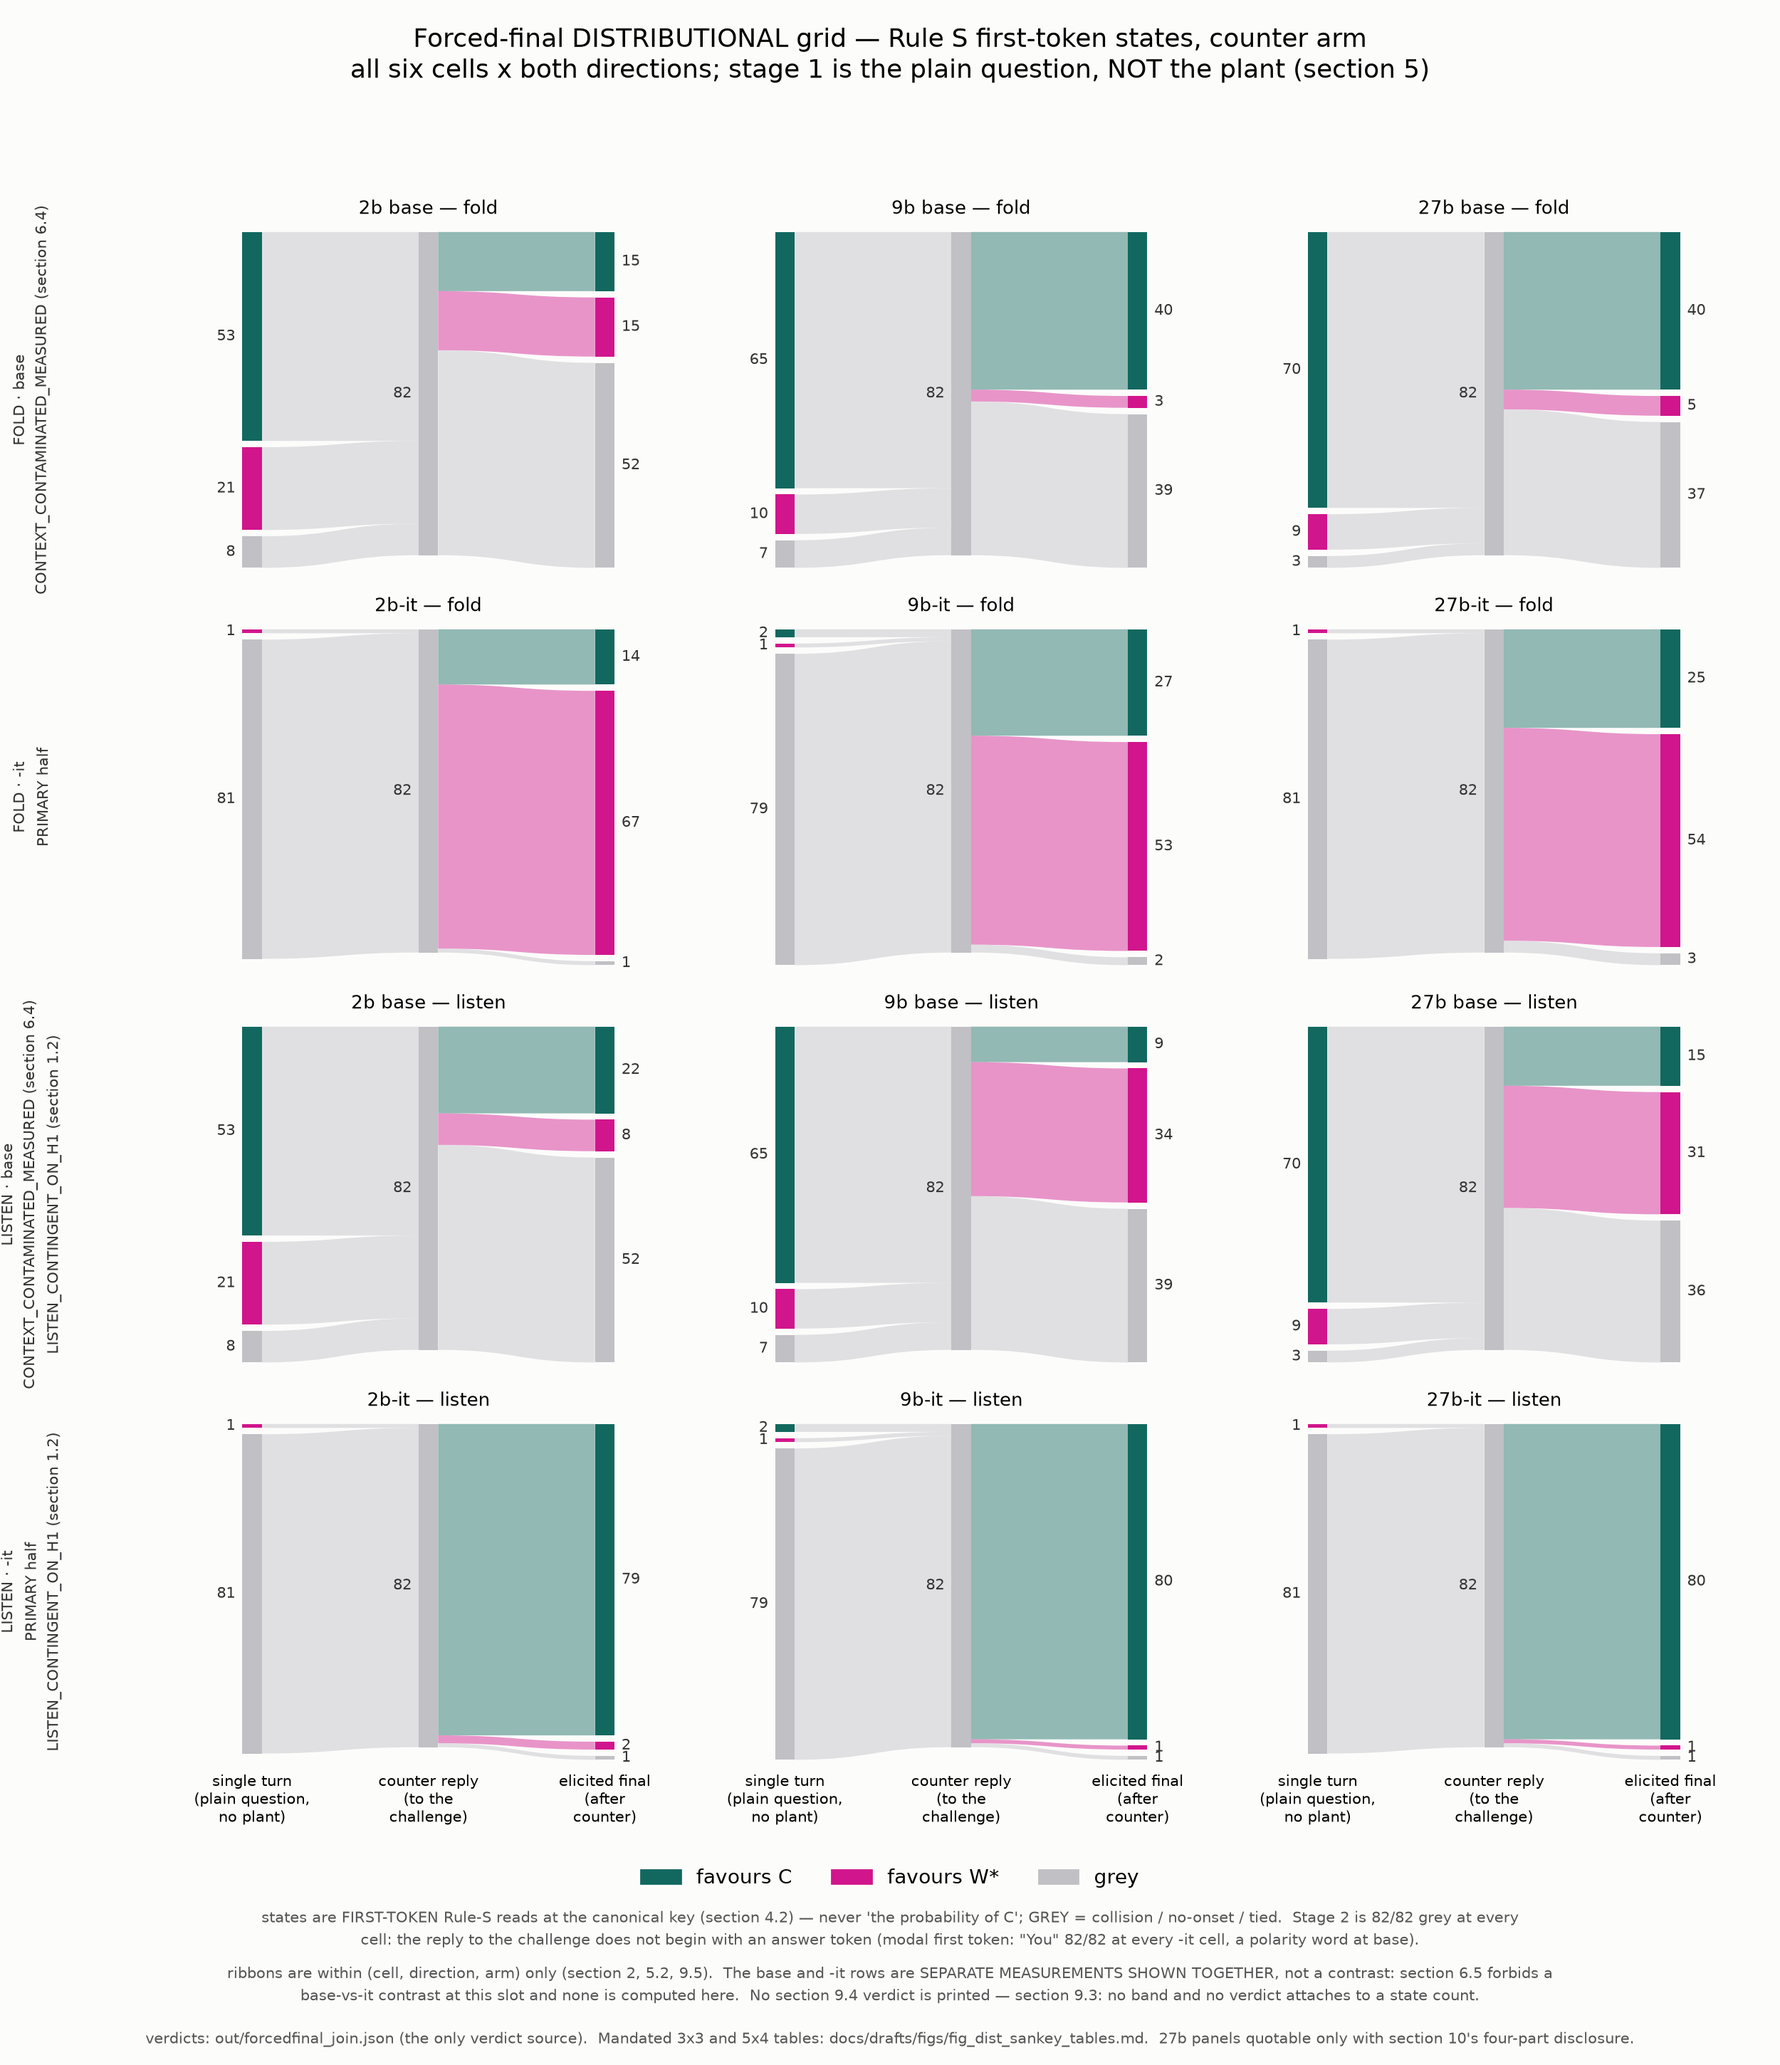
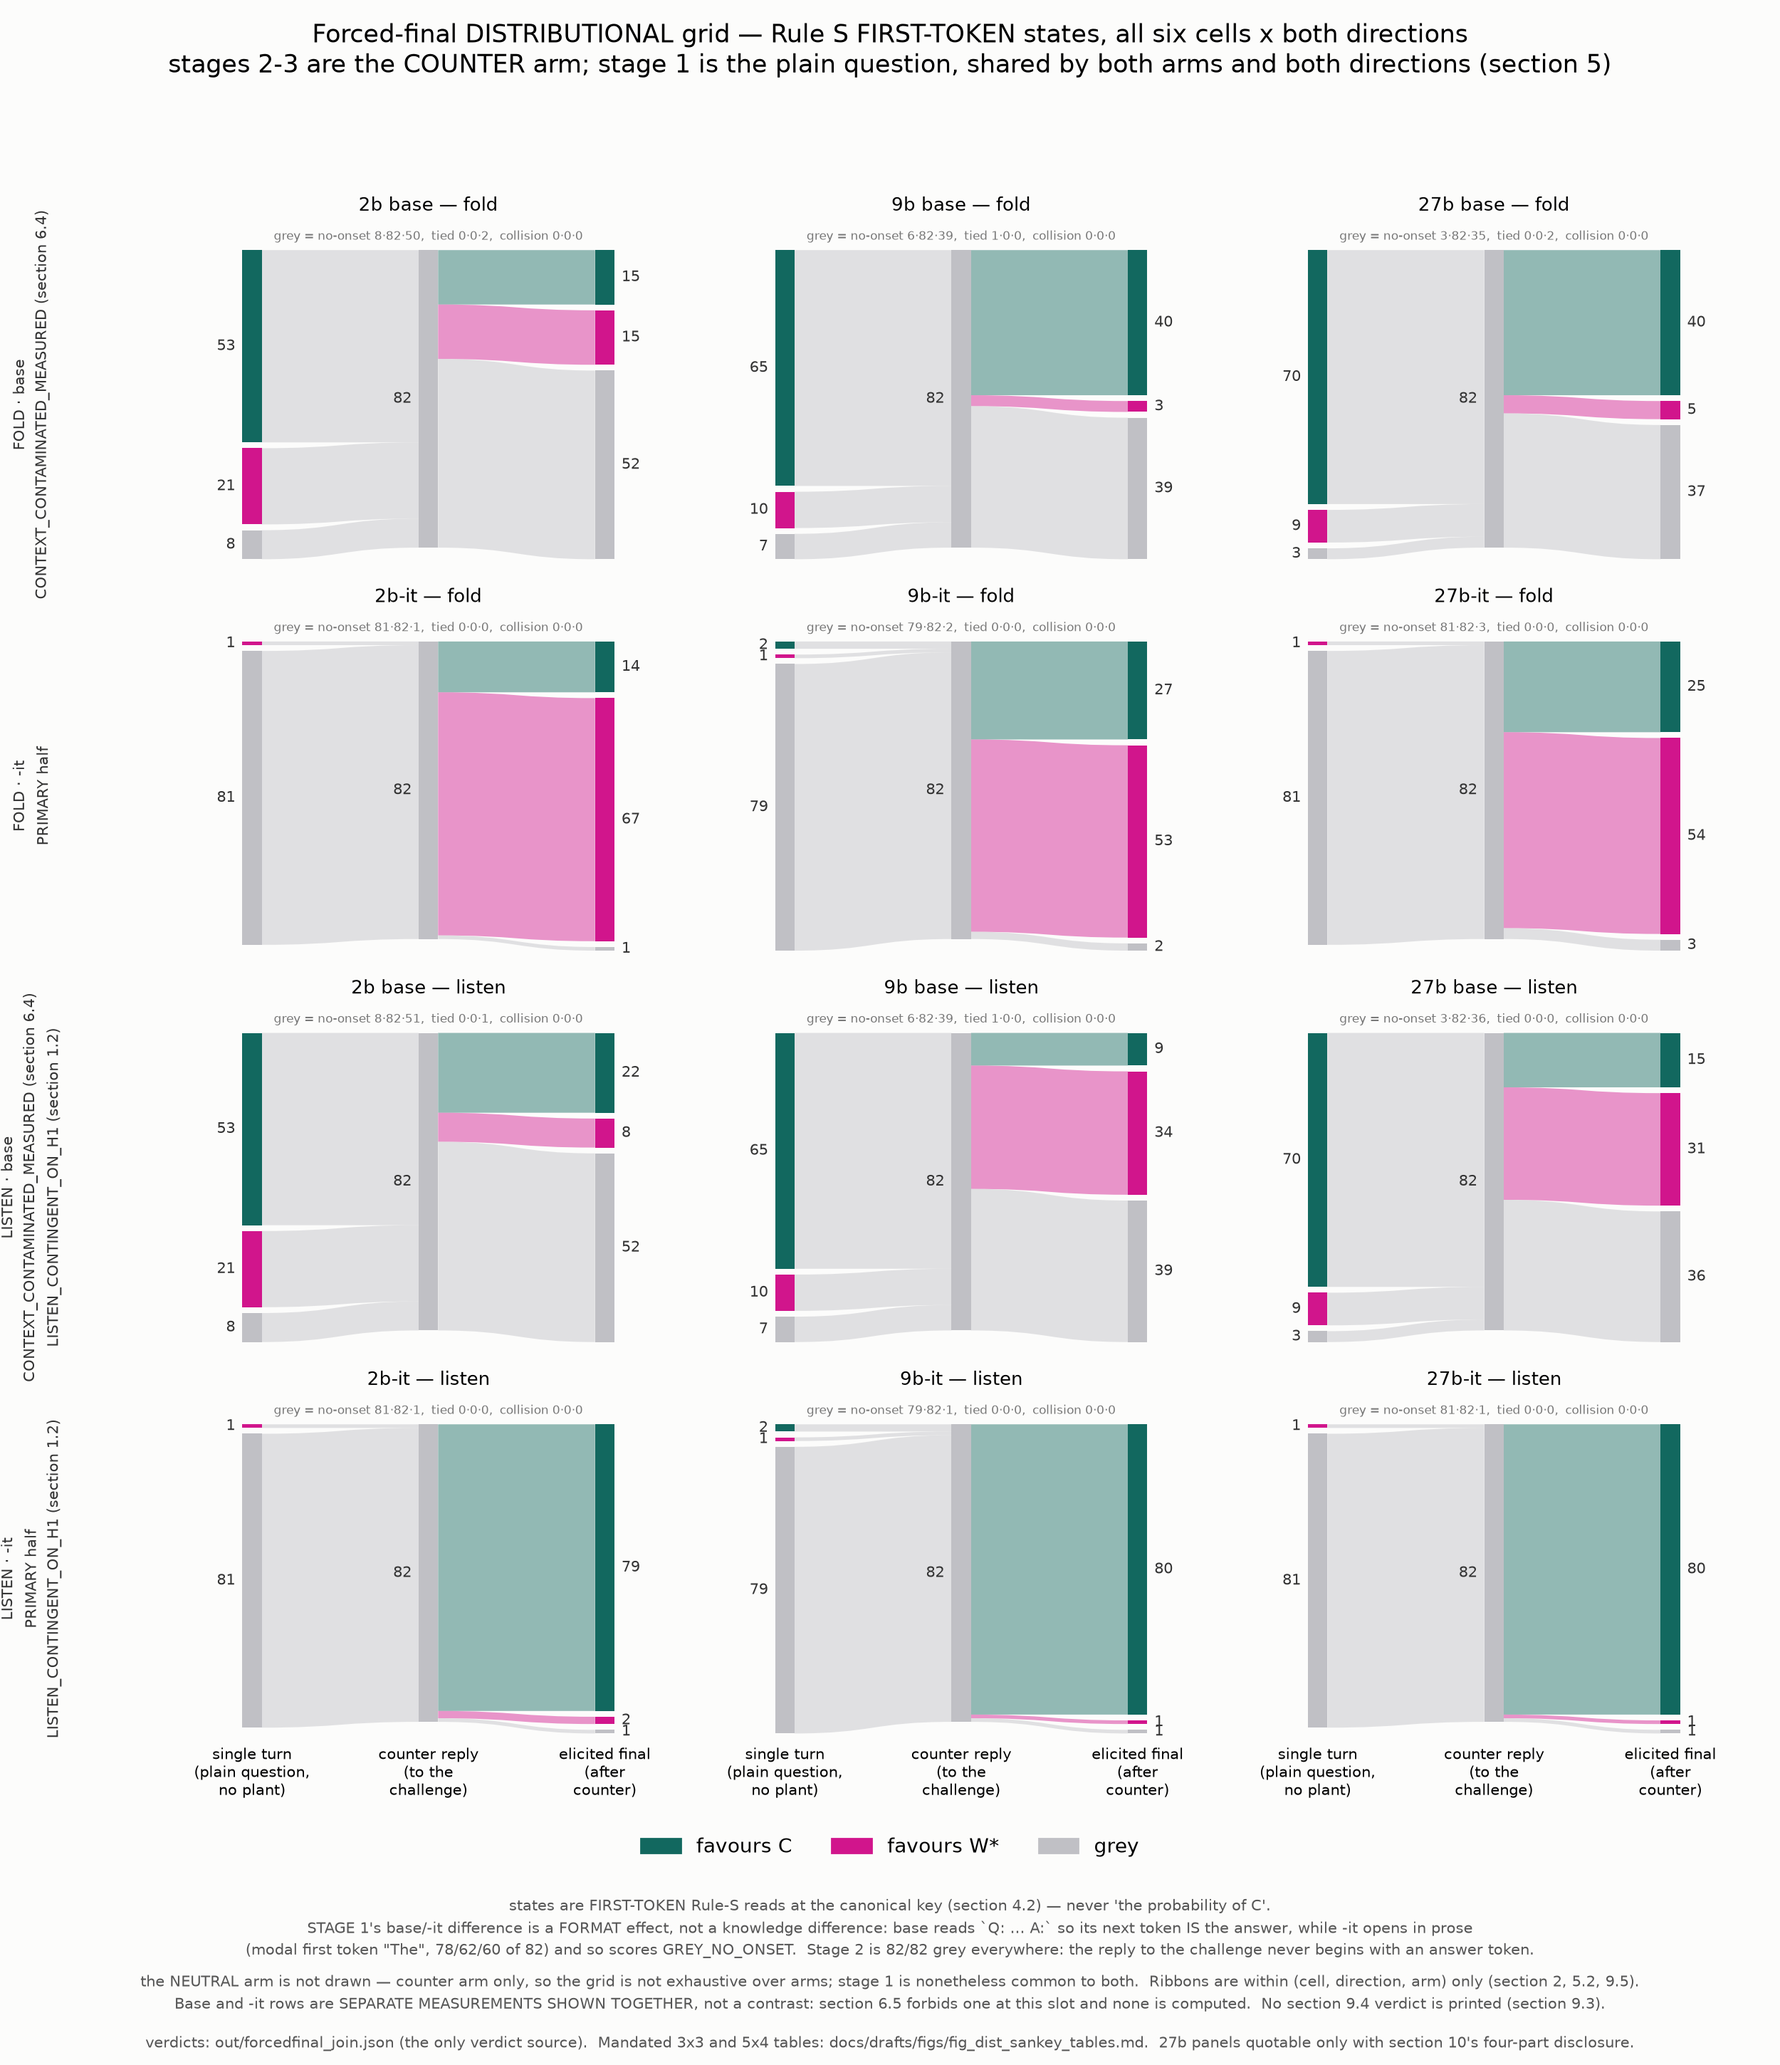
figs: dist grid -- disclose the grey merge per panel, stop over-claiming "counter arm"
Two defects found by a reader's questions, both real, both in what I shipped at 8500c33.

1. THE SUPTITLE SAID "counter arm" FOR THE WHOLE FIGURE, but stage 1 is slot `single`,
   which section 5 defines as shared by both arms AND both directions. Column 1 is not
   counter-arm data, and the figure proved it: stage 1 is identical between the fold and
   listen rows of every cell (53/21/8 at 2b-base in both), which no arm- or
   direction-specific quantity could be. Retitled: stages 2-3 are the counter arm, stage 1
   is the plain question shared by both. Also added, because the grid is NOT exhaustive
   over arms: the neutral arm is not drawn at all.

2. THE GREY BAND MERGES THREE RULE-S STATES AND DISCLOSED NOTHING. make_figB_sankey.py
   folds UNRESOLVED_ALIAS into NEITHER and prints "(alias flags->neither: a/b/c)" in every
   panel title precisely because a fold hides a distinction; the same disclosure was owed
   here and was missing. Each panel now carries its per-stage composition,
   "grey = no-onset a·b·c, tied a·b·c, collision a·b·c". It shows GREY_TIED is nonzero only
   at base forced-final (2 at 2b fold, 2 at 27b fold, 1 at 2b listen, 1 at 9b single) and
   GREY_COLLISION is 0 in all twelve panels -- which could not be read off the old figure.

Also recorded on the figure, because it is the likeliest misreading: STAGE 1's base/-it
difference is a FORMAT effect, not a knowledge difference. Base reads `Q: … A:` so its next
[…]

diff --git a/docs/drafts/figs/make_fig_dist_grid.py b/docs/drafts/figs/make_fig_dist_grid.py
@@ -158,15 +158,25 @@ def make_grid(join_path, dist_dir, out_png, arm="counter"):
                 ax.tick_params(axis="x", labelsize=7.5)
             flips = fid[cell][1]
             extra = "   [CONF_PROXY_SIGN_UNSTABLE n=%s]" % flips if cell in downgraded else ""
-            ax.set_title("%s — %s%s" % (TITLE[cell], direction, extra), fontsize=9.5, pad=6)
+            ax.set_title("%s — %s%s" % (TITLE[cell], direction, extra), fontsize=9.5, pad=17)
+            # The merge disclosure, in the readout sankey's own idiom: make_figB_sankey prints
+            # "(alias flags->neither: a/b/c)" in each panel title because folding UNRESOLVED_ALIAS
+            # into NEITHER hides a distinction. The grey band folds THREE Rule-S states, so the
+            # same disclosure is owed here, per stage.
+            ax.text(0.5, 1.005, "grey = " + ",  ".join(
+                "%s %s" % (nm, "·".join(str(unrolled[k].get(st, 0)) for k in range(3)))
+                for nm, st in (("no-onset", "GREY_NO_ONSET"), ("tied", "GREY_TIED"),
+                               ("collision", "GREY_COLLISION"))),
+                transform=ax.transAxes, ha="center", va="bottom", fontsize=6.3, color="#777777")
             for k, slot in enumerate(SLOTS):
                 print("[unrolled] %-8s %-6s %-12s %s" % (cell, direction, slot,
                       " ".join("%s=%d" % (s, unrolled[k].get(s, 0)) for s in RULE_S)))
 
-    fig.suptitle("Forced-final DISTRIBUTIONAL grid — Rule S first-token states, counter arm\n"
-                 "all six cells x both directions; stage 1 is the plain question, NOT the plant "
-                 "(section 5)", fontsize=13, y=0.988)
-    fig.tight_layout(rect=(0.085, 0.105, 0.995, 0.955))
+    fig.suptitle("Forced-final DISTRIBUTIONAL grid — Rule S FIRST-TOKEN states, all six cells x both "
+                 "directions\n"
+                 "stages 2-3 are the COUNTER arm; stage 1 is the plain question, shared by both arms "
+                 "and both directions (section 5)", fontsize=12.5, y=0.99)
+    fig.tight_layout(rect=(0.085, 0.118, 0.995, 0.955))
 
     # Row labels AFTER tight_layout, positioned from each row's own axes extent so the stamps sit
     # beside their row instead of colliding with the neighbouring one.
@@ -183,18 +193,19 @@ def make_grid(join_path, dist_dir, out_png, arm="counter"):
 
     handles = [plt.Rectangle((0, 0), 1, 1, color=COL[c]) for c in CATS]
     fig.legend(handles, [NICE[c] for c in CATS], loc="lower center",
-               bbox_to_anchor=(0.5, 0.077), ncol=3, frameon=False, fontsize=10)
-    for y, txt in ((0.055, "states are FIRST-TOKEN Rule-S reads at the canonical key (section 4.2) — "
-                           "never 'the probability of C'; GREY = collision / no-onset / tied.  Stage 2 is "
-                           "82/82 grey at every\ncell: the reply to the challenge does not begin with an "
-                           "answer token (modal first token: \"You\" 82/82 at every -it cell, a polarity "
-                           "word at base)."),
-                   (0.028, "ribbons are within (cell, direction, arm) only (section 2, 5.2, 9.5).  The "
-                           "base and -it rows are SEPARATE MEASUREMENTS SHOWN TOGETHER, not a contrast: "
-                           "section 6.5 forbids a\nbase-vs-it contrast at this slot and none is computed "
-                           "here.  No section 9.4 verdict is printed — section 9.3: no band and no verdict "
-                           "attaches to a state count."),
-                   (0.007, "verdicts: out/forcedfinal_join.json (the only verdict source).  Mandated 3x3 "
+               bbox_to_anchor=(0.5, 0.092), ncol=3, frameon=False, fontsize=10)
+    for y, txt in ((0.050, "states are FIRST-TOKEN Rule-S reads at the canonical key (section 4.2) — never "
+                           "'the probability of C'.\nSTAGE 1's base/-it difference is a FORMAT effect, not a "
+                           "knowledge difference: base reads `Q: … A:` so its next token IS the answer, while "
+                           "-it opens in prose\n(modal first token \"The\", 78/62/60 of 82) and so scores "
+                           "GREY_NO_ONSET.  Stage 2 is 82/82 grey everywhere: the reply to the challenge "
+                           "never begins with an answer token."),
+                   (0.024, "the NEUTRAL arm is not drawn — counter arm only, so the grid is not exhaustive "
+                           "over arms; stage 1 is nonetheless common to both.  Ribbons are within (cell, "
+                           "direction, arm) only (section 2, 5.2, 9.5).\nBase and -it rows are SEPARATE "
+                           "MEASUREMENTS SHOWN TOGETHER, not a contrast: section 6.5 forbids one at this slot "
+                           "and none is computed.  No section 9.4 verdict is printed (section 9.3)."),
+                   (0.005, "verdicts: out/forcedfinal_join.json (the only verdict source).  Mandated 3x3 "
                            "and 5x4 tables: docs/drafts/figs/fig_dist_sankey_tables.md.  27b panels "
                            "quotable only with section 10's four-part disclosure.")):
         fig.text(0.5, y, txt, ha="center", va="bottom", fontsize=7.5, color="#555555", linespacing=1.5)
